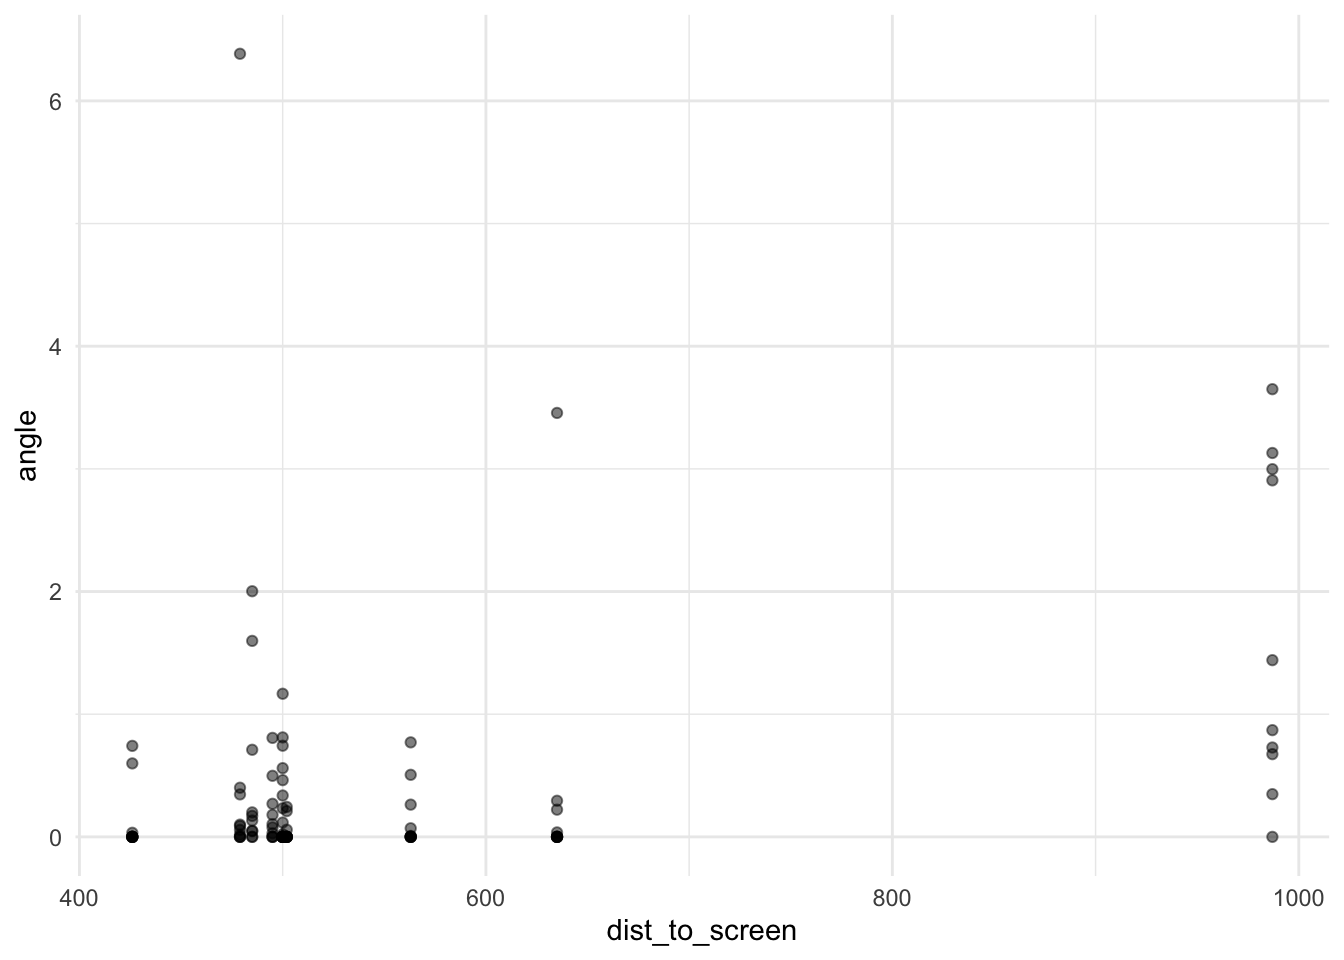
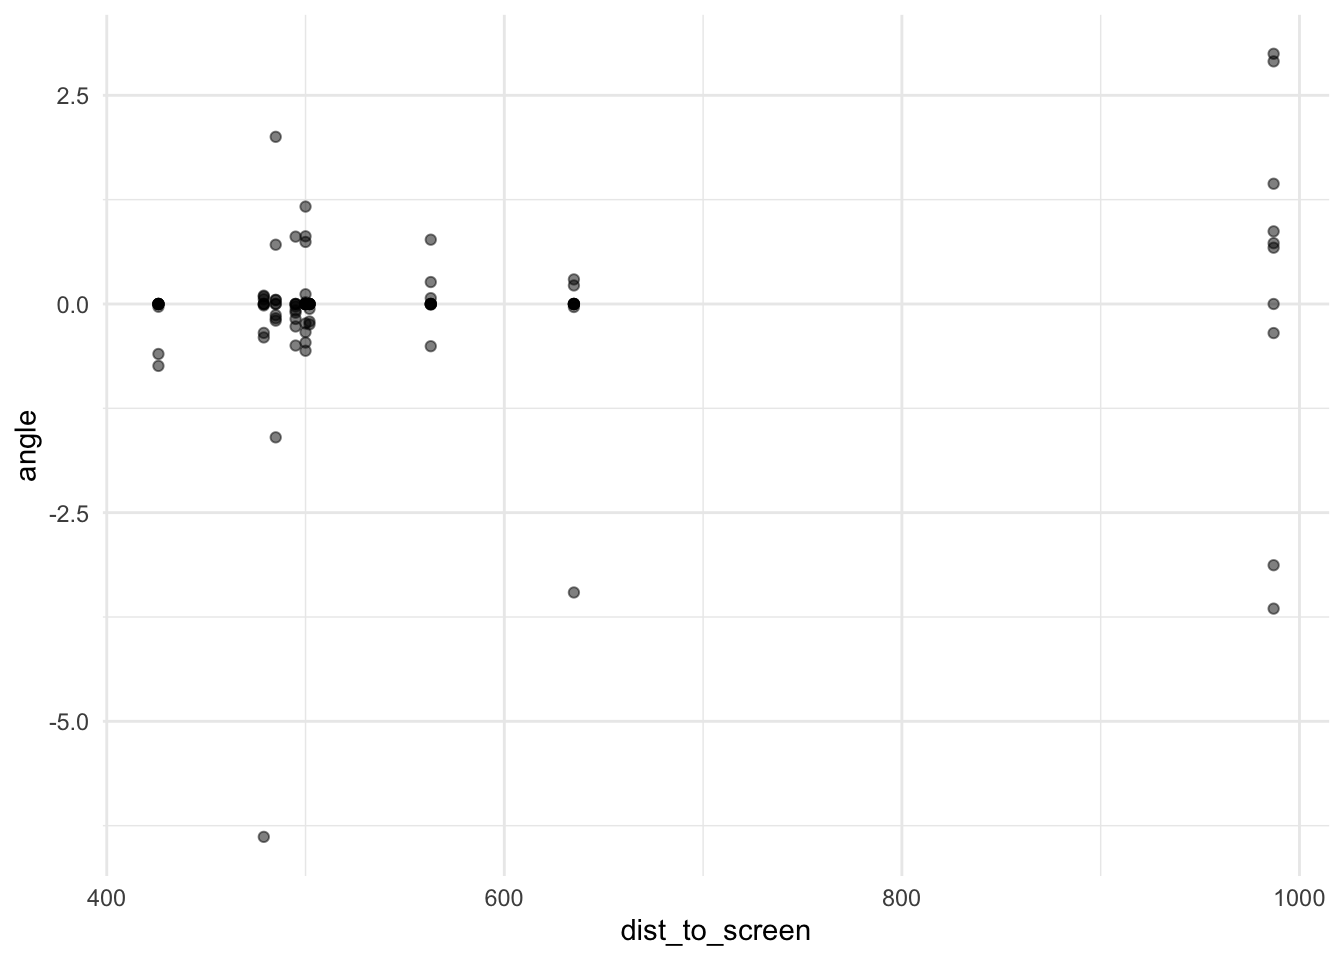
making all the angles to be signed instead of absolute values ...

diff --git a/model.html b/model.html
@@ -841,7 +841,7 @@ scale reduction factor on split chains (at convergence, Rhat = 1).</code></pre>
 <span id="cb56-2"><a href="#cb56-2" aria-hidden="true" tabindex="-1"></a>                    <span class="at">diff.y =</span> phy.select.y <span class="sc">-</span> phy.ans.y) <span class="sc">%&gt;%</span> </span>
 <span id="cb56-3"><a href="#cb56-3" aria-hidden="true" tabindex="-1"></a>  <span class="fu">mutate</span>(<span class="at">diff.x =</span> <span class="fu">round</span>(diff.x, <span class="dv">3</span>), <span class="at">diff.y =</span> <span class="fu">round</span>(diff.y, <span class="dv">3</span>)) <span class="sc">%&gt;%</span> </span>
 <span id="cb56-4"><a href="#cb56-4" aria-hidden="true" tabindex="-1"></a>  <span class="fu">mutate</span>(<span class="at">angle =</span> <span class="fu">case_when</span>(diff.x <span class="sc">==</span> <span class="dv">0</span> <span class="sc">~</span> <span class="dv">0</span>, </span>
-<span id="cb56-5"><a href="#cb56-5" aria-hidden="true" tabindex="-1"></a>                           diff.x <span class="sc">!=</span> <span class="dv">0</span> <span class="sc">~</span> <span class="fu">atan</span>(<span class="fu">abs</span>(diff.y) <span class="sc">/</span> <span class="fu">abs</span>(diff.x)) <span class="sc">*</span> <span class="dv">180</span> <span class="sc">/</span> pi )) <span class="sc">%&gt;%</span> </span>
+<span id="cb56-5"><a href="#cb56-5" aria-hidden="true" tabindex="-1"></a>                           diff.x <span class="sc">!=</span> <span class="dv">0</span> <span class="sc">~</span> <span class="fu">atan</span>(diff.y <span class="sc">/</span> diff.x) <span class="sc">*</span> <span class="dv">180</span> <span class="sc">/</span> pi )) <span class="sc">%&gt;%</span> </span>
 <span id="cb56-6"><a href="#cb56-6" aria-hidden="true" tabindex="-1"></a>  <span class="fu">ggplot</span>(<span class="fu">aes</span>(<span class="at">x =</span> angle)) <span class="sc">+</span> </span>
 <span id="cb56-7"><a href="#cb56-7" aria-hidden="true" tabindex="-1"></a>  <span class="fu">geom_dots</span>()</span></code><button title="Copy to Clipboard" class="code-copy-button"><i class="bi"></i></button></pre></div>
 <div class="cell-output-display">
@@ -855,8 +855,8 @@ scale reduction factor on split chains (at convergence, Rhat = 1).</code></pre>
 <span id="cb57-2"><a href="#cb57-2" aria-hidden="true" tabindex="-1"></a>                    <span class="at">diff.y =</span> phy.select.y <span class="sc">-</span> phy.ans.y) <span class="sc">%&gt;%</span> </span>
 <span id="cb57-3"><a href="#cb57-3" aria-hidden="true" tabindex="-1"></a>  <span class="fu">mutate</span>(<span class="at">diff.x =</span> <span class="fu">round</span>(diff.x, <span class="dv">3</span>), <span class="at">diff.y =</span> <span class="fu">round</span>(diff.y, <span class="dv">3</span>)) <span class="sc">%&gt;%</span> </span>
 <span id="cb57-4"><a href="#cb57-4" aria-hidden="true" tabindex="-1"></a>  <span class="fu">mutate</span>(<span class="at">angle =</span> <span class="fu">case_when</span>(diff.x <span class="sc">==</span> <span class="dv">0</span> <span class="sc">~</span> <span class="dv">0</span>, </span>
-<span id="cb57-5"><a href="#cb57-5" aria-hidden="true" tabindex="-1"></a>                           diff.x <span class="sc">!=</span> <span class="dv">0</span> <span class="sc">~</span> <span class="fu">atan</span>(<span class="fu">abs</span>(diff.y) <span class="sc">/</span> <span class="fu">abs</span>(diff.x)) <span class="sc">*</span> <span class="dv">180</span> <span class="sc">/</span> pi )) <span class="sc">%&gt;%</span> </span>
-<span id="cb57-6"><a href="#cb57-6" aria-hidden="true" tabindex="-1"></a>  <span class="fu">ggplot</span>(<span class="fu">aes</span>(<span class="at">x =</span> angle, <span class="at">y =</span> <span class="fu">abs</span>(data.select.angle))) <span class="sc">+</span> </span>
+<span id="cb57-5"><a href="#cb57-5" aria-hidden="true" tabindex="-1"></a>                           diff.x <span class="sc">!=</span> <span class="dv">0</span> <span class="sc">~</span> <span class="fu">atan</span>(diff.y <span class="sc">/</span> diff.x) <span class="sc">*</span> <span class="dv">180</span> <span class="sc">/</span> pi )) <span class="sc">%&gt;%</span> </span>
+<span id="cb57-6"><a href="#cb57-6" aria-hidden="true" tabindex="-1"></a>  <span class="fu">ggplot</span>(<span class="fu">aes</span>(<span class="at">x =</span> angle, <span class="at">y =</span> data.select.angle)) <span class="sc">+</span> </span>
 <span id="cb57-7"><a href="#cb57-7" aria-hidden="true" tabindex="-1"></a>  <span class="fu">geom_point</span>(<span class="at">alpha =</span> <span class="fl">0.5</span>) <span class="sc">+</span> </span>
 <span id="cb57-8"><a href="#cb57-8" aria-hidden="true" tabindex="-1"></a>  <span class="fu">geom_abline</span>(<span class="at">intercept =</span> <span class="dv">0</span>, <span class="at">slope =</span> <span class="dv">1</span>, <span class="at">color =</span> <span class="st">"black"</span>, <span class="at">linetype =</span> <span class="st">"dashed"</span>)</span></code><button title="Copy to Clipboard" class="code-copy-button"><i class="bi"></i></button></pre></div>
 <div class="cell-output-display">
@@ -867,14 +867,14 @@ scale reduction factor on split chains (at convergence, Rhat = 1).</code></pre>
 </div>
 </div>
 </div>
-<p>This just means that if we were to use the highest point and the selected point as ways to calculate the actual angle, then it is smaller than the actual slope at the selected point.</p>
+<p>This just means that if we were to use the highest point and the selected point as ways to calculate the actual angle, then it is <strong>larger</strong> than the actual slope at the selected point.</p>
 <p>Is this newly calculated <code>angle</code> going to be related to <code>dist_to_screen</code>?</p>
 <div class="cell">
 <div class="sourceCode cell-code" id="cb58"><pre class="sourceCode r code-with-copy"><code class="sourceCode r"><span id="cb58-1"><a href="#cb58-1" aria-hidden="true" tabindex="-1"></a>task2_df <span class="sc">%&gt;%</span> <span class="fu">mutate</span>(<span class="at">diff.x =</span> phy.select.x <span class="sc">-</span> phy.ans.x, </span>
 <span id="cb58-2"><a href="#cb58-2" aria-hidden="true" tabindex="-1"></a>                    <span class="at">diff.y =</span> phy.select.y <span class="sc">-</span> phy.ans.y) <span class="sc">%&gt;%</span> </span>
 <span id="cb58-3"><a href="#cb58-3" aria-hidden="true" tabindex="-1"></a>  <span class="fu">mutate</span>(<span class="at">diff.x =</span> <span class="fu">round</span>(diff.x, <span class="dv">3</span>), <span class="at">diff.y =</span> <span class="fu">round</span>(diff.y, <span class="dv">3</span>)) <span class="sc">%&gt;%</span> </span>
 <span id="cb58-4"><a href="#cb58-4" aria-hidden="true" tabindex="-1"></a>  <span class="fu">mutate</span>(<span class="at">angle =</span> <span class="fu">case_when</span>(diff.x <span class="sc">==</span> <span class="dv">0</span> <span class="sc">~</span> <span class="dv">0</span>, </span>
-<span id="cb58-5"><a href="#cb58-5" aria-hidden="true" tabindex="-1"></a>                           diff.x <span class="sc">!=</span> <span class="dv">0</span> <span class="sc">~</span> <span class="fu">atan</span>(<span class="fu">abs</span>(diff.y) <span class="sc">/</span> <span class="fu">abs</span>(diff.x)) <span class="sc">*</span> <span class="dv">180</span> <span class="sc">/</span> pi )) <span class="sc">%&gt;%</span> </span>
+<span id="cb58-5"><a href="#cb58-5" aria-hidden="true" tabindex="-1"></a>                           diff.x <span class="sc">!=</span> <span class="dv">0</span> <span class="sc">~</span> <span class="fu">atan</span>(diff.y <span class="sc">/</span> diff.x) <span class="sc">*</span> <span class="dv">180</span> <span class="sc">/</span> pi )) <span class="sc">%&gt;%</span> </span>
 <span id="cb58-6"><a href="#cb58-6" aria-hidden="true" tabindex="-1"></a>  <span class="fu">ggplot</span>(<span class="fu">aes</span>(<span class="at">x =</span> dist_to_screen, <span class="at">y =</span> angle)) <span class="sc">+</span> </span>
 <span id="cb58-7"><a href="#cb58-7" aria-hidden="true" tabindex="-1"></a>  <span class="fu">geom_point</span>(<span class="at">alpha =</span> <span class="fl">0.5</span>)</span></code><button title="Copy to Clipboard" class="code-copy-button"><i class="bi"></i></button></pre></div>
 <div class="cell-output-display">
@@ -886,15 +886,33 @@ scale reduction factor on split chains (at convergence, Rhat = 1).</code></pre>
 </div>
 </div>
 <p>Compare to the graph before, the difference is that this one has a bigger variance.</p>
+<p>What if we use the numbers in the visual angle space and not the physical space?</p>
+<div class="cell">
+<div class="sourceCode cell-code" id="cb59"><pre class="sourceCode r code-with-copy"><code class="sourceCode r"><span id="cb59-1"><a href="#cb59-1" aria-hidden="true" tabindex="-1"></a>task2_df <span class="sc">%&gt;%</span> <span class="fu">mutate</span>(<span class="at">diff.x =</span> va.select.x <span class="sc">-</span> va.ans.x, </span>
+<span id="cb59-2"><a href="#cb59-2" aria-hidden="true" tabindex="-1"></a>                    <span class="at">diff.y =</span> va.select.y <span class="sc">-</span> va.ans.y) <span class="sc">%&gt;%</span> </span>
+<span id="cb59-3"><a href="#cb59-3" aria-hidden="true" tabindex="-1"></a>  <span class="fu">mutate</span>(<span class="at">diff.x =</span> <span class="fu">round</span>(diff.x, <span class="dv">3</span>), <span class="at">diff.y =</span> <span class="fu">round</span>(diff.y, <span class="dv">3</span>)) <span class="sc">%&gt;%</span> </span>
+<span id="cb59-4"><a href="#cb59-4" aria-hidden="true" tabindex="-1"></a>  <span class="fu">mutate</span>(<span class="at">angle =</span> <span class="fu">case_when</span>(diff.x <span class="sc">==</span> <span class="dv">0</span> <span class="sc">~</span> <span class="dv">0</span>, </span>
+<span id="cb59-5"><a href="#cb59-5" aria-hidden="true" tabindex="-1"></a>                           diff.x <span class="sc">!=</span> <span class="dv">0</span> <span class="sc">~</span> <span class="fu">atan</span>(diff.y <span class="sc">/</span> diff.x) <span class="sc">*</span> <span class="dv">180</span> <span class="sc">/</span> pi )) <span class="sc">%&gt;%</span> </span>
+<span id="cb59-6"><a href="#cb59-6" aria-hidden="true" tabindex="-1"></a>  <span class="fu">ggplot</span>(<span class="fu">aes</span>(<span class="at">x =</span> dist_to_screen, <span class="at">y =</span> angle)) <span class="sc">+</span> </span>
+<span id="cb59-7"><a href="#cb59-7" aria-hidden="true" tabindex="-1"></a>  <span class="fu">geom_point</span>(<span class="at">alpha =</span> <span class="fl">0.5</span>)</span></code><button title="Copy to Clipboard" class="code-copy-button"><i class="bi"></i></button></pre></div>
+<div class="cell-output-display">
+<div>
+<figure class="figure">
+<p><img src="model_files/figure-html/unnamed-chunk-33-1.png" class="img-fluid figure-img" width="672"></p>
+</figure>
+</div>
+</div>
+</div>
+<p>Hmm doesn’t seem to be much different, which is to be expected, as slope is unit-less.</p>
 <hr>
 </section>
 <section id="task-4-find-slope" class="level1">
 <h1>Task 4 – Find slope</h1>
 <div class="cell">
-<div class="sourceCode cell-code" id="cb59"><pre class="sourceCode r code-with-copy"><code class="sourceCode r"><span id="cb59-1"><a href="#cb59-1" aria-hidden="true" tabindex="-1"></a>task4_df <span class="ot">&lt;-</span> task_df <span class="sc">%&gt;%</span> <span class="fu">filter</span>(task <span class="sc">==</span> <span class="st">"task4"</span>) <span class="sc">%&gt;%</span> </span>
-<span id="cb59-2"><a href="#cb59-2" aria-hidden="true" tabindex="-1"></a>  <span class="fu">select</span>(<span class="sc">-</span>slider.x, <span class="sc">-</span>slider.y) <span class="sc">%&gt;%</span> </span>
-<span id="cb59-3"><a href="#cb59-3" aria-hidden="true" tabindex="-1"></a>  <span class="fu">mutate</span>(<span class="at">slope =</span> <span class="fu">dsgt</span>(data.select.x, param.mu, param.sigma, param.lambda, param.p, param.q, <span class="at">mean.cent=</span><span class="cn">FALSE</span>), </span>
-<span id="cb59-4"><a href="#cb59-4" aria-hidden="true" tabindex="-1"></a>         <span class="at">ans =</span> <span class="fu">dsgt</span>(param.mu, param.mu, param.sigma, param.lambda, param.p, param.q, <span class="at">mean.cent=</span><span class="cn">FALSE</span>))</span></code><button title="Copy to Clipboard" class="code-copy-button"><i class="bi"></i></button></pre></div>
+<div class="sourceCode cell-code" id="cb60"><pre class="sourceCode r code-with-copy"><code class="sourceCode r"><span id="cb60-1"><a href="#cb60-1" aria-hidden="true" tabindex="-1"></a>task4_df <span class="ot">&lt;-</span> task_df <span class="sc">%&gt;%</span> <span class="fu">filter</span>(task <span class="sc">==</span> <span class="st">"task4"</span>) <span class="sc">%&gt;%</span> </span>
+<span id="cb60-2"><a href="#cb60-2" aria-hidden="true" tabindex="-1"></a>  <span class="fu">select</span>(<span class="sc">-</span>slider.x, <span class="sc">-</span>slider.y) <span class="sc">%&gt;%</span> </span>
+<span id="cb60-3"><a href="#cb60-3" aria-hidden="true" tabindex="-1"></a>  <span class="fu">mutate</span>(<span class="at">slope =</span> <span class="fu">dsgt</span>(data.select.x, param.mu, param.sigma, param.lambda, param.p, param.q, <span class="at">mean.cent=</span><span class="cn">FALSE</span>), </span>
+<span id="cb60-4"><a href="#cb60-4" aria-hidden="true" tabindex="-1"></a>         <span class="at">ans =</span> <span class="fu">dsgt</span>(param.mu, param.mu, param.sigma, param.lambda, param.p, param.q, <span class="at">mean.cent=</span><span class="cn">FALSE</span>))</span></code><button title="Copy to Clipboard" class="code-copy-button"><i class="bi"></i></button></pre></div>
 </div>
 </section>
 
